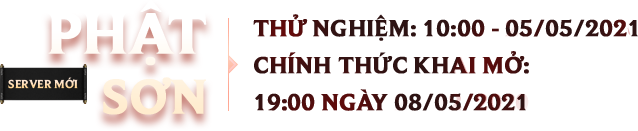
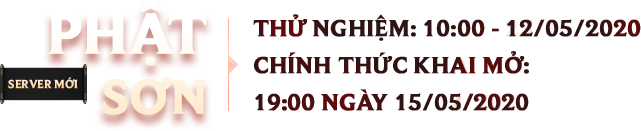
commit hotfix/update-ngay-open-va-share-link-fb-sever-phatson * update lại ngày tháng cho sever phatson và khi share link

diff --git a/config/t2g_common.php b/config/t2g_common.php
@@ -2,7 +2,7 @@
 
 return [
     'asset' => [
-        'version' => '202104201238',
+        'version' => '202105056725',
         'base_url' => env('ASSET_BASE_URL'),
     ],
     'site'     => [
@@ -10,7 +10,7 @@ return [
         'seo'     => [
             'title'            => 'Võ Lâm Trung Nguyên',
             'meta_keyword'     => 'vo lam trung nguyen, vltk hay, game pk hay, volam1, ctc, vo lam ctc, vo lam cong thanh chien, vo lam 1',
-            'meta_description' => 'Khai mở Server Phật Sơn - 19h00 ngày 08/05/2021. Với sự góp mặt của các đại bang đến từ khắp chốn giang hồ. Sự trở lại của 1 huyền thoại với 1 diện mạo hoàn toàn mới - Nơi 1 Huyền Thoại mới của giới private xuất hiện',
+            'meta_description' => 'Khai mở Server Phật Sơn - 19h00 ngày 15/05/2021. Với sự góp mặt của các đại bang đến từ khắp chốn giang hồ. Sự trở lại của 1 huyền thoại với 1 diện mạo hoàn toàn mới - Nơi 1 Huyền Thoại mới của giới private xuất hiện',
             'meta_image'       => 'images/share_phat_son.jpeg',
         ],
         // Open Graph configs
